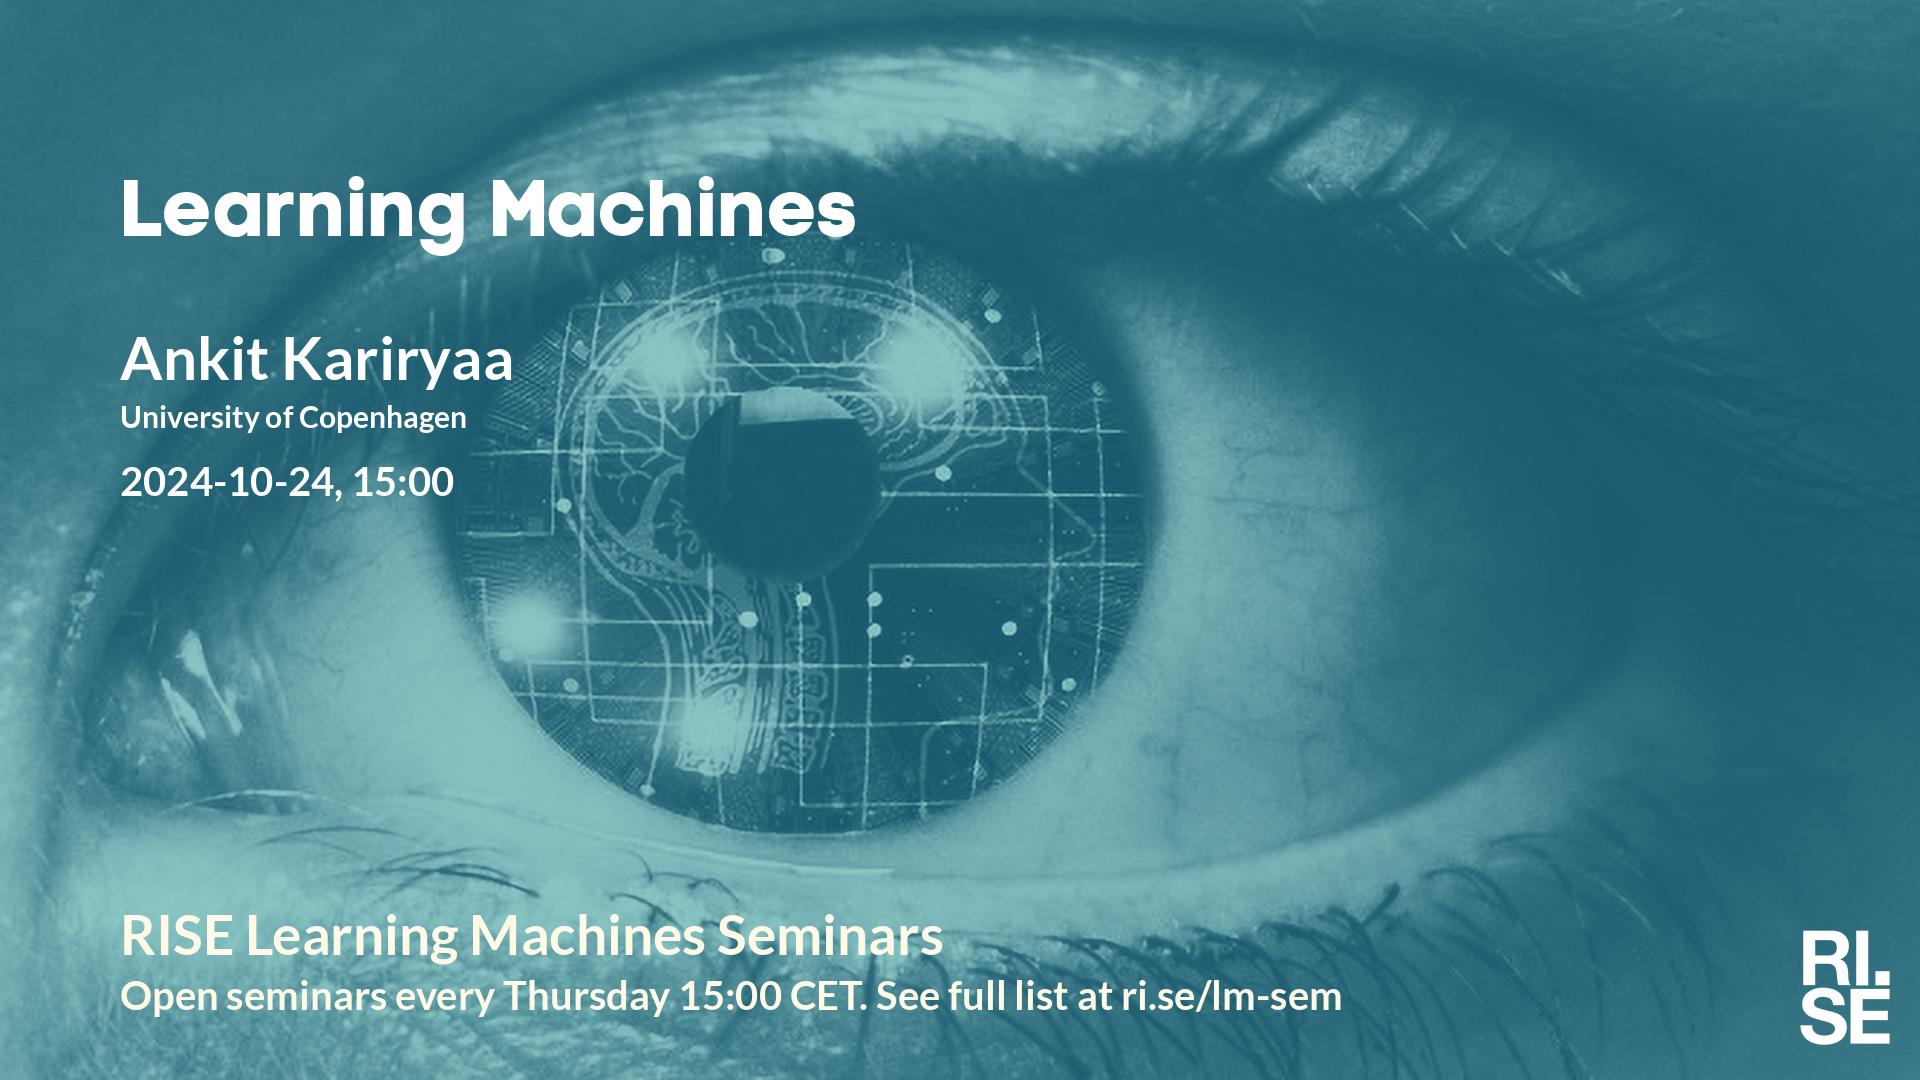
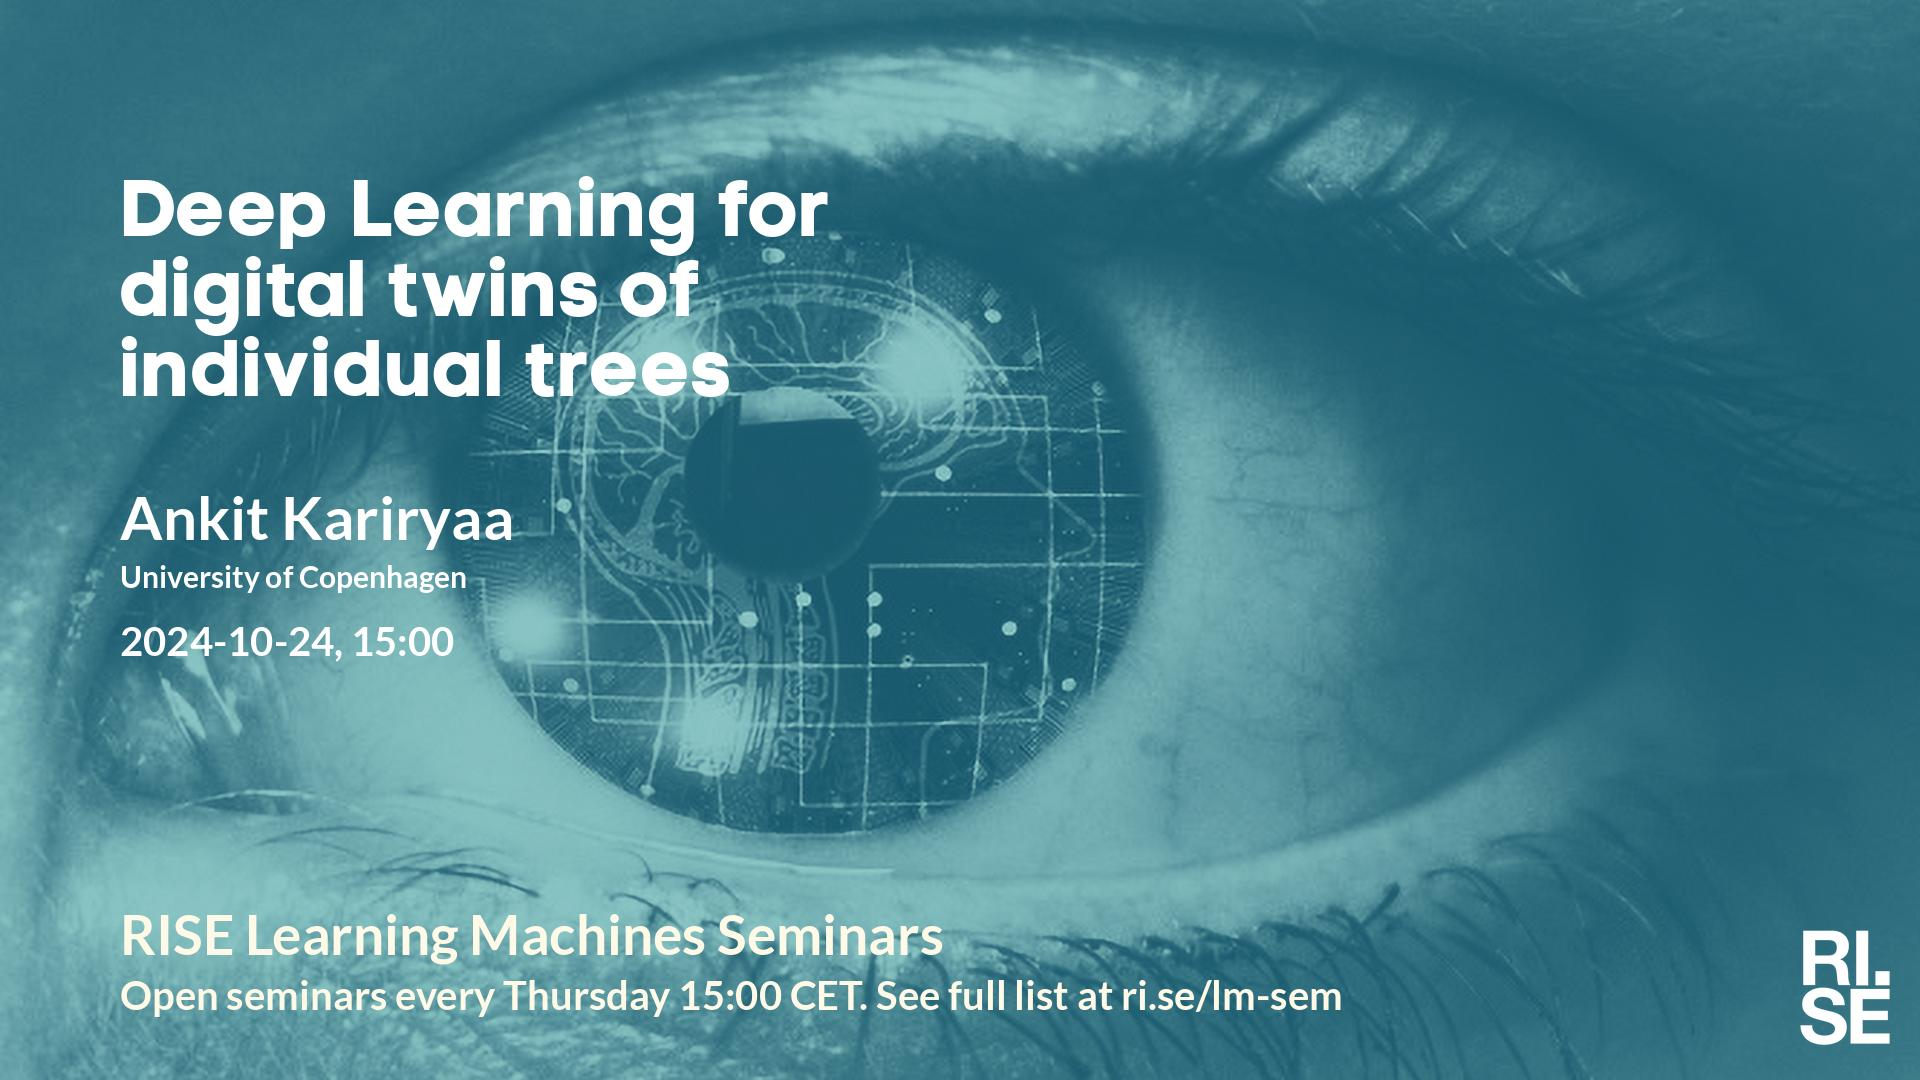
Updated plan on web site.

Changed region(s): [[0.0625, 0.1528, 0.4688, 0.3972], [0.0625, 0.4278, 0.2812, 0.55], [0.0625, 0.5806, 0.25, 0.6111]]

diff --git a/lm/index.md b/lm/index.md
@@ -5,7 +5,7 @@ metatags: "<meta name=\"robots\" content=\"noindex,nofollow\" />"
 <style type="text/css" scoped>
 td, th {border: 1px solid #ccc; padding: 0.6em;}
 table {border-collapse: collapse;}
-</style># Learning Machines Plan 2024-10-07
+</style># Learning Machines Plan 2024-10-08
 
 | date | speaker                                   | photo | shareable | meeting backdrop | youtube thumbnail | <a title="Speaker, Title, Abstract, Bio, Photo. Strikethrough means we don't have it yet.">comment</a>        |
 | ---- | ----------------------------------------- | ----- | ----- | ----- | ----- | -------------- |
@@ -14,7 +14,7 @@ table {border-collapse: collapse;}
 |  2024-10-03  |  [Jakob Ambsdorf, University of Copenhagen & Pioneer Centre for AI](2024-10-03.md)  |  [photo](photo-jakob-ambsdorf.jpg)  |  [social media ](social-media-jakob-ambsdorf.jpg)  |  [meeting backdrop ](meeting-backdrop-jakob-ambsdorf.jpg)  |  [youtube thumbnail ](youtube-thumbnail-jakob-ambsdorf.jpg)  |  STABP  |
 | <span style="color:red"> 2024-10-10 </span> | <span style="color:red"> CANCELLED </span> | <span style="color:red">  </span> | <span style="color:red">  </span> | <span style="color:red">  </span> | <span style="color:red">  </span> | <span style="color:red"> CANCELLED </span> |
 |  2024-10-17  |  [Matthias Obst, University of Gothenburg](2024-10-17.md)  |  [photo](photo-matthias-obst.jpg)  |  [social media ](social-media-matthias-obst.jpg)  |  [meeting backdrop ](meeting-backdrop-matthias-obst.jpg)  |  [youtube thumbnail ](youtube-thumbnail-matthias-obst.jpg)  |  STABP  |
-|  2024-10-24  |  [Ankit Kariryaa, University of Copenhagen](2024-10-24.md)  |    |  [social media ](social-media-ankit-kariryaa.jpg)  |  [meeting backdrop ](meeting-backdrop-ankit-kariryaa.jpg)  |  [youtube thumbnail ](youtube-thumbnail-ankit-kariryaa.jpg)  |  S~~TABP~~  |
+|  2024-10-24  |  [Ankit Kariryaa, University of Copenhagen](2024-10-24.md)  |    |  [social media ](social-media-ankit-kariryaa.jpg)  |  [meeting backdrop ](meeting-backdrop-ankit-kariryaa.jpg)  |  [youtube thumbnail ](youtube-thumbnail-ankit-kariryaa.jpg)  |  STAB~~P~~  |
 | <span style="color:red"> 2024-10-31 </span> | <span style="color:red"> Höstlov </span> | <span style="color:red">  </span> | <span style="color:red">  </span> | <span style="color:red">  </span> | <span style="color:red">  </span> | <span style="color:red"> CANCELLED </span> |
 |  2024-11-07  |  [Joel Oskarsson, Linköping University](2024-11-07.md)  |    |  [social media ](social-media-joel-oskarsson.jpg)  |  [meeting backdrop ](meeting-backdrop-joel-oskarsson.jpg)  |  [youtube thumbnail ](youtube-thumbnail-joel-oskarsson.jpg)  |  S~~TABP~~  |
 |  2024-11-14  |  [Abdulhakim Abdi, Lund University](2024-11-14.md)  |  [photo](photo-abdulhakim-abdi.jpg)  |  [social media ](social-media-abdulhakim-abdi.jpg)  |  [meeting backdrop ](meeting-backdrop-abdulhakim-abdi.jpg)  |  [youtube thumbnail ](youtube-thumbnail-abdulhakim-abdi.jpg)  |  S~~TAB~~P  |

diff --git a/lm/2024-10-24.md b/lm/2024-10-24.md
@@ -4,19 +4,23 @@ metatags: "<meta name=\"robots\" content=\"noindex,nofollow\" />"
 ---
 Welcome to this week's Learning Machines seminar.
 
-**Title:** N/A
+**Title:** Deep Learning for digital twins of individual trees
 
 **Speaker:** Ankit Kariryaa, University of Copenhagen
 
-**Abstract:** N/A
+**Abstract:** Recent advances in remote sensing and machine learning have made it possible to create digital twins of individual trees, providing unprecedented insights into their health and dynamics. My presentation will focus on the application of deep learning techniques in tree mapping and forest segmentation. I will showcase how neural networks are used to segment tree crowns from satellite imagery, enabling precise measurements of canopy area and tree distribution within and outside forests. Additionally, allometric equations will be applied to estimate biomass and stored carbon levels for individual trees.I will also explore the critical aspects of large-scale image processing pipelines and the selection of optimal satellite images for accurate mapping of individual trees across vast areas. Finally, I will delve into the self-supervised learning methods, which enable models to learn from large amounts of unlabeled data. By harnessing the vast quantities of satellite imagery and other remote sensing data, we can train models that can recognize patterns and features relevant to tree monitoring without human annotation.
 
-**About the speaker:** N/A
+**About the speaker:** Ankit Kariryaa is a tenure-track assistant professor of bridging geo- and AI-sciences, embedded in both the Department of Geosciences and Natural Resource Management and the Department of Computer Science at the University of Copenhagen. Ankit received his Ph.D. in Computer Science from the University of Bremen, Germany in 2020 with highest distinction. He is deeply passionate about advancing machine learning techniques to address environmental challenges and combat the climate crisis
 
 **Location:** Scheelevägen 17, Lund, or online using Zoom.
 
 **Date:** 2024-10-24 15:00
 
 **Zoom link:** [https://rise.zoom.us/j/208117140](https://rise.zoom.us/j/208117140)
+
+
+This seminar will have an in-person presence at the RISE office in Lund, located at [Scheelevägen 17](https://maps.app.goo.gl/6uW4R8HYKZgwxe9L7), IDEON Science park, house Beta5, fourth floor. Make sure that you arrive in good time and knock at the door.
+
 
 **Upcoming seminars:**
 
